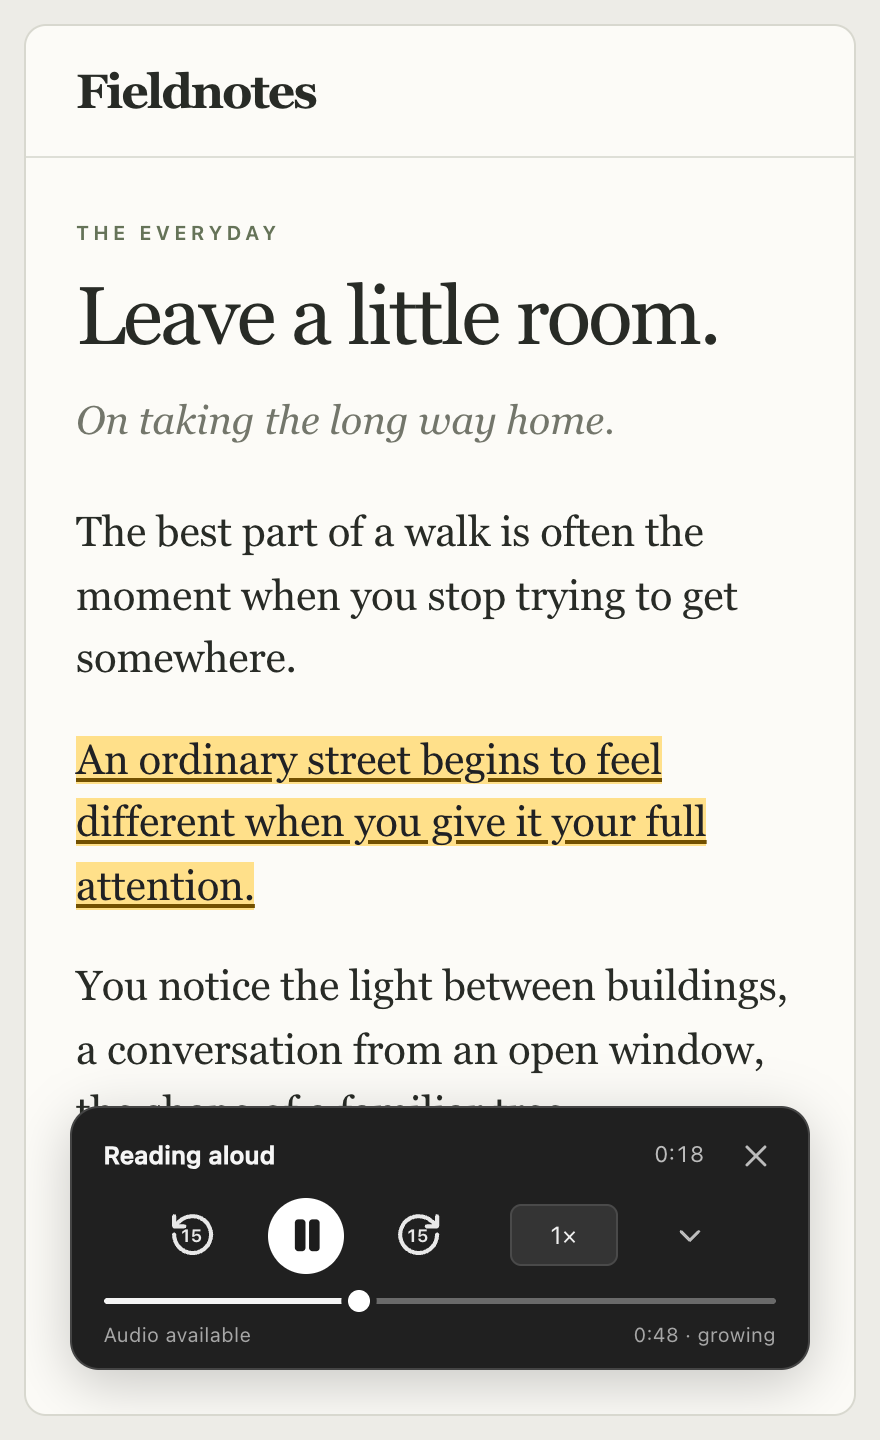
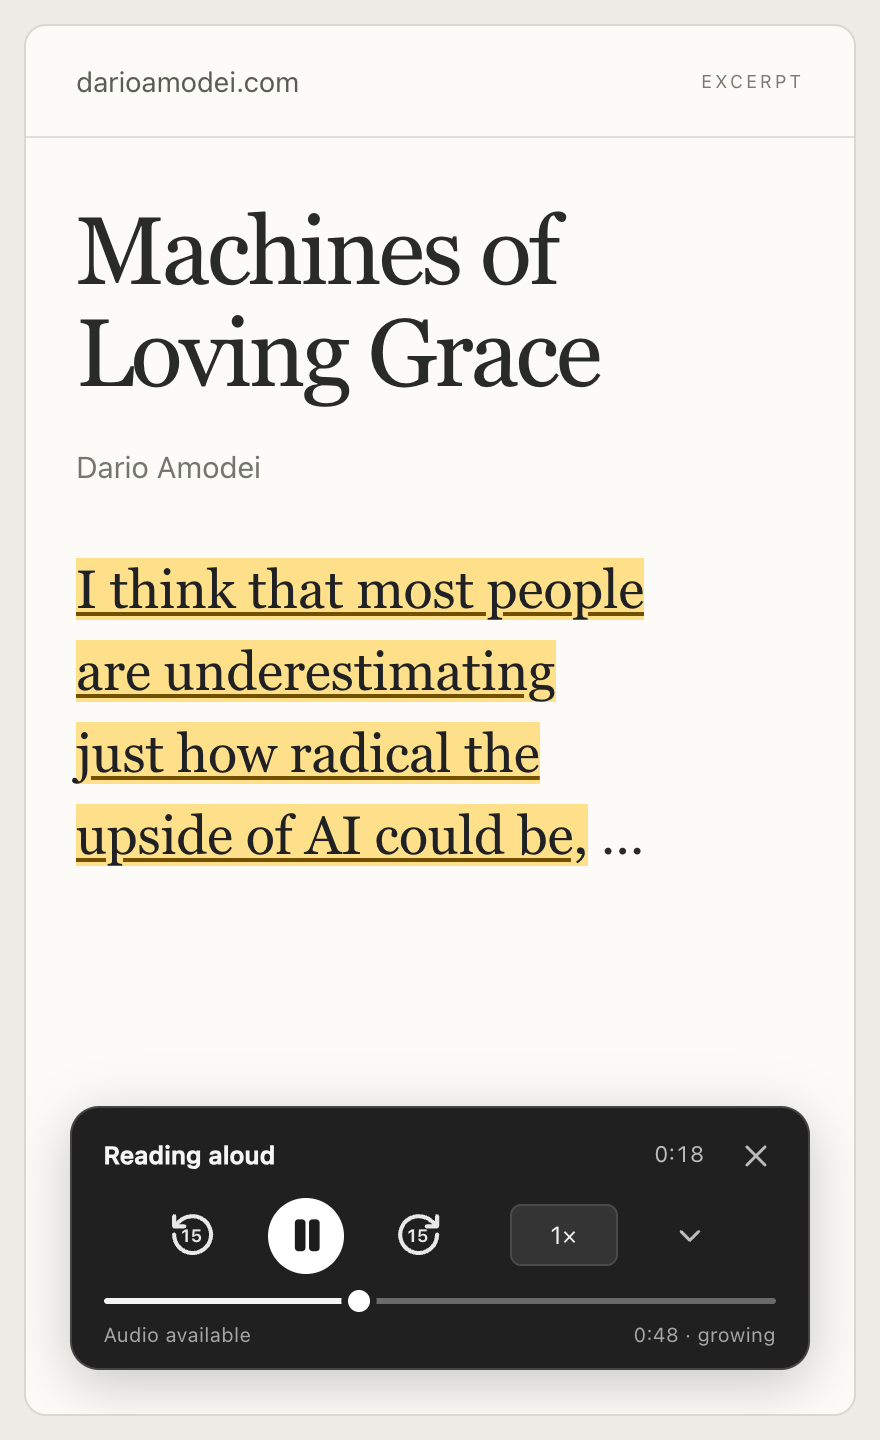
docs: use sourced article in reader preview

diff --git a/docs/assets/reader-preview.css b/docs/assets/reader-preview.css
@@ -2,27 +2,24 @@
 body { margin: 0; background: #edece7; color: #282b26; -webkit-font-smoothing: antialiased; }
 .scene { width: 1100px; height: 740px; padding: 26px; }
 .paper { height: 100%; position: relative; overflow: hidden; background: #fcfbf7; border: 1px solid #d8d8cf; border-radius: 14px; }
-.site-header { display: flex; justify-content: space-between; align-items: center; padding: 22px 54px; border-bottom: 1px solid #dedfd7; }
-.wordmark { font-family: Georgia, serif; font-size: 28px; font-weight: bold; letter-spacing: -1px; }
-.site-tag { font: 12px -apple-system, BlinkMacSystemFont, sans-serif; color: #777c70; }
-article { padding: 40px 54px 70px; max-width: 890px; }
-.eyebrow { margin-bottom: 17px; font: 11px -apple-system, BlinkMacSystemFont, sans-serif; font-weight: 650; letter-spacing: 2px; color: #657358; }
-h1 { font: normal 58px/1.06 Georgia, serif; letter-spacing: -2px; margin: 0; }
-.standfirst { font: italic 23px/1.5 Georgia, serif; color: #73766b; margin: 17px 0 29px; }
-.article-body { font: 25px/1.58 Georgia, serif; letter-spacing: -.18px; max-width: 780px; }
-.article-body p { margin: 0 0 19px; }
+.site-header { display: flex; justify-content: space-between; align-items: center; padding: 25px 54px; border-bottom: 1px solid #dedfd7; }
+.source-domain { font: 16px -apple-system, BlinkMacSystemFont, sans-serif; color: #585e51; text-decoration: none; }
+.source-label { font: 10px -apple-system, BlinkMacSystemFont, sans-serif; letter-spacing: 1.8px; color: #777c70; }
+article { padding: 42px 54px 70px; max-width: 915px; }
+h1 { font: normal 66px/1.04 Georgia, serif; letter-spacing: -2px; margin: 0; }
+.byline { font: 17px/1.5 -apple-system, BlinkMacSystemFont, sans-serif; color: #73766b; margin: 19px 0 29px; }
+.article-body { font: 32px/1.53 Georgia, serif; letter-spacing: -.18px; max-width: 805px; }
+.article-body p { margin: 0; text-wrap: balance; }
 .player-anchor { position: absolute; bottom: 30px; right: 28px; zoom: 1.5; }
 @media (max-width: 600px) {
   .scene { width: 440px; height: 720px; padding: 12px; }
   .paper { border-radius: 11px; }
   .site-header { padding: 19px 25px; }
-  .wordmark { font-size: 24px; }
-  .site-tag { display: none; }
+  .source-domain { font-size: 14px; }
+  .source-label { font-size: 9px; letter-spacing: 1.4px; }
   article { padding: 31px 25px 60px; }
-  .eyebrow { font-size: 10px; margin-bottom: 14px; }
-  h1 { font-size: 41px; letter-spacing: -1.3px; line-height: 1.05; max-width: 330px; }
-  .standfirst { font-size: 20px; margin: 16px 0 26px; }
-  .article-body { font-size: 21px; line-height: 1.5; letter-spacing: -.1px; }
-  .article-body p { margin-bottom: 19px; }
+  h1 { font-size: 48px; letter-spacing: -1.6px; line-height: 1.07; max-width: 360px; }
+  .byline { font-size: 15px; margin: 19px 0 30px; }
+  .article-body { font-size: 27px; line-height: 1.52; letter-spacing: -.1px; }
   .player-anchor { zoom: 1.12; bottom: 20px; right: 20px; }
 }

diff --git a/docs/assets/reader-preview.tsx b/docs/assets/reader-preview.tsx
@@ -1,5 +1,5 @@
-// Silent documentation scene. The article and playback position are illustrative;
-// the player, source mapping and highlight painter come from the product.
+// Silent documentation scene. A brief attributed excerpt uses an illustrative
+// playback position; the player, source mapping and painter come from the product.
 import React, { useEffect } from 'react';
 import { createRoot } from 'react-dom/client';
 import { ReaderPlayer, type PlayerState } from '@/components/reader/ReaderPlayer';
@@ -7,7 +7,8 @@ import { captureReadingSource } from '@/lib/sourceText';
 import { SourceHighlight } from '@/lib/sourceHighlight';
 import './reader-preview.css';
 
-const sentence = 'An ordinary street begins to feel different when you give it your full attention.';
+const sentence = 'I think that most people are underestimating just how radical the upside of AI could be,';
+const articleUrl = 'https://darioamodei.com/essay/machines-of-loving-grace';
 const state: PlayerState = {
   phase: 'playing', elapsedSec: 18, durationSec: null, bufferedSec: 30,
   seekableStartSec: 0, seekableEndSec: 48, voice: 'af_nicole', voiceName: 'Nicole',
@@ -28,15 +29,12 @@ function Scene() {
   }, []);
   return <main className="scene">
     <div className="paper">
-      <header className="site-header"><span className="wordmark">Fieldnotes</span><span className="site-tag">Small observations. A little more attention.</span></header>
+      <header className="site-header"><a href={articleUrl} className="source-domain">darioamodei.com</a><span className="source-label">EXCERPT</span></header>
       <article>
-        <div className="eyebrow">THE EVERYDAY</div>
-        <h1>Leave a little room.</h1>
-        <p className="standfirst">On taking the long way home.</p>
+        <h1>Machines of<br />Loving Grace</h1>
+        <p className="byline">Dario Amodei</p>
         <div className="article-body">
-          <p>The best part of a walk is often the moment when you stop trying to get somewhere.</p>
-          <p>{sentence}</p>
-          <p>You notice the light between buildings, a conversation from an open window, the shape of a familiar tree.</p>
+          <p>{sentence} …</p>
         </div>
       </article>
       <div className="player-anchor"><ReaderPlayer state={state} onPause={() => {}} onResume={() => {}} onSeek={() => {}} onSpeed={() => {}} onClose={() => {}} /></div>

diff --git a/README.md b/README.md
@@ -4,10 +4,10 @@ Turn a selected passage or a full article into speech without leaving the page. 
 
 <p><picture>
   <source media="(max-width: 600px)" srcset="docs/assets/reader-preview-mobile.png">
-  <img src="docs/assets/reader-preview.png" alt="Illustrative Local Reader view with an article sentence highlighted above the Kokoro playback controls.">
+  <img src="docs/assets/reader-preview.png" alt="Illustrative Local Reader view with an excerpt from Dario Amodei’s essay highlighted above the Kokoro playback controls.">
 </picture></p>
 
-*Kokoro sentence highlighting and playback controls, shown on an illustrative article.*
+*Kokoro playback and highlighting, illustrated with an excerpt from Dario Amodei’s [Machines of Loving Grace](https://darioamodei.com/essay/machines-of-loving-grace).*
 
 [Get started](#build-from-source) · [Choose a voice](#choose-a-voice) · [Current limits](#what-to-expect) · [Technical notes](tts-ext/README.md)
 

diff --git a/docs/assets/README.md b/docs/assets/README.md
@@ -1,9 +1,11 @@
 # README preview assets
 
 `reader-preview.png` and `reader-preview-mobile.png` depict the current Kokoro
-player and sentence highlighting on an original, illustrative article. They are
-documentation scenes with a fixed example playback position, not recordings or
-performance measurements. The article is fictional; no external page is copied.
+player and sentence highlighting on a brief attributed excerpt from Dario Amodei’s
+[Machines of Loving Grace](https://darioamodei.com/essay/machines-of-loving-grace).
+They are documentation scenes with a fixed example playback position, not
+recordings or performance measurements. The article excerpt is authentic; the
+page composition is an illustration rather than a capture of the author's site.
 
 The scene imports `ReaderPlayer`, `captureReadingSource` and `SourceHighlight`
 directly from the extension. Player styling, labels and highlight painting come
